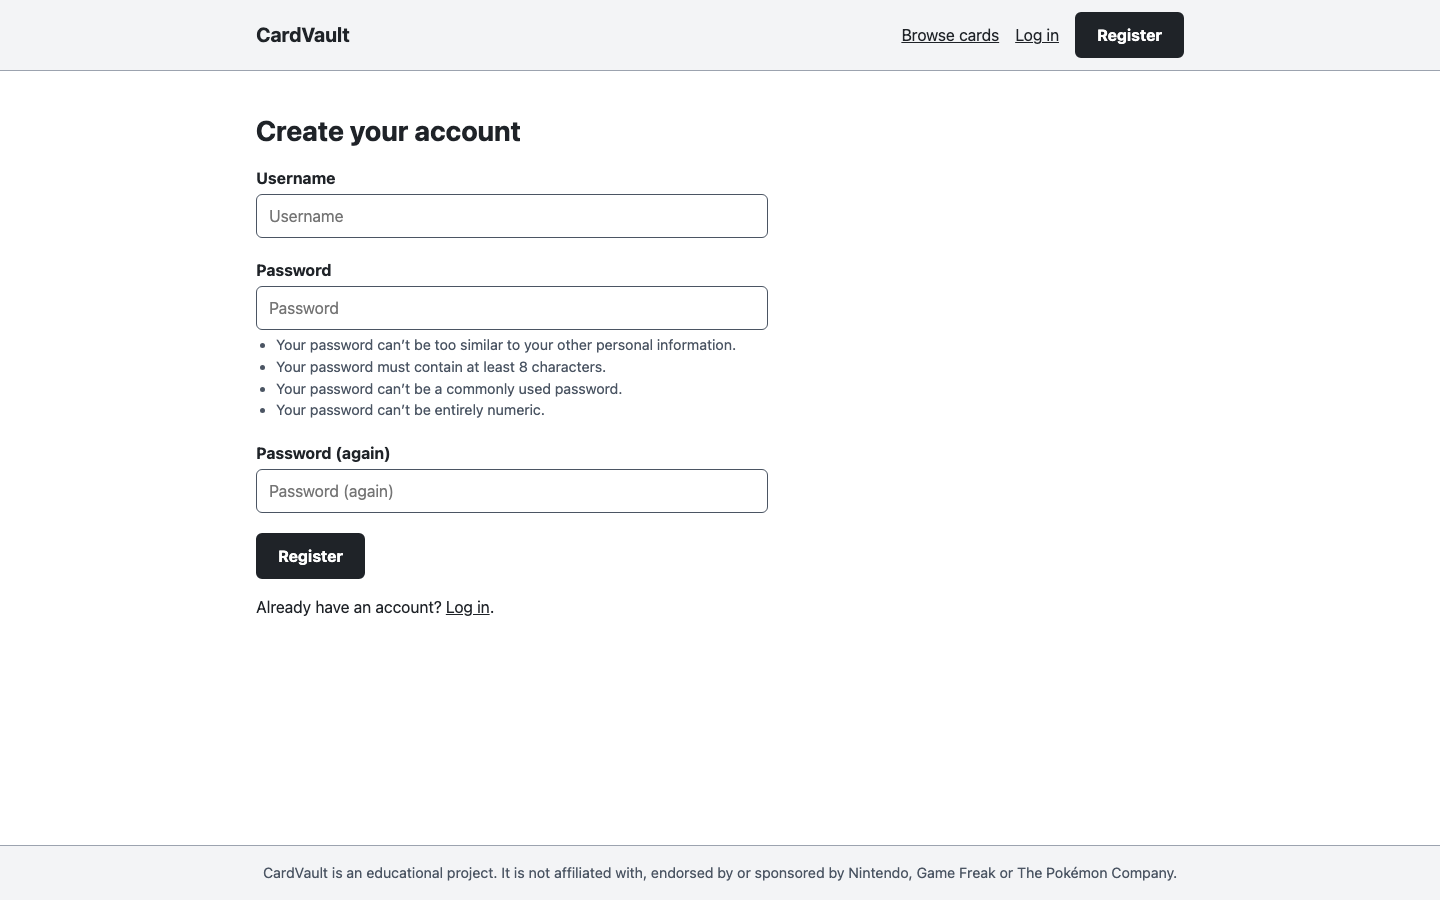
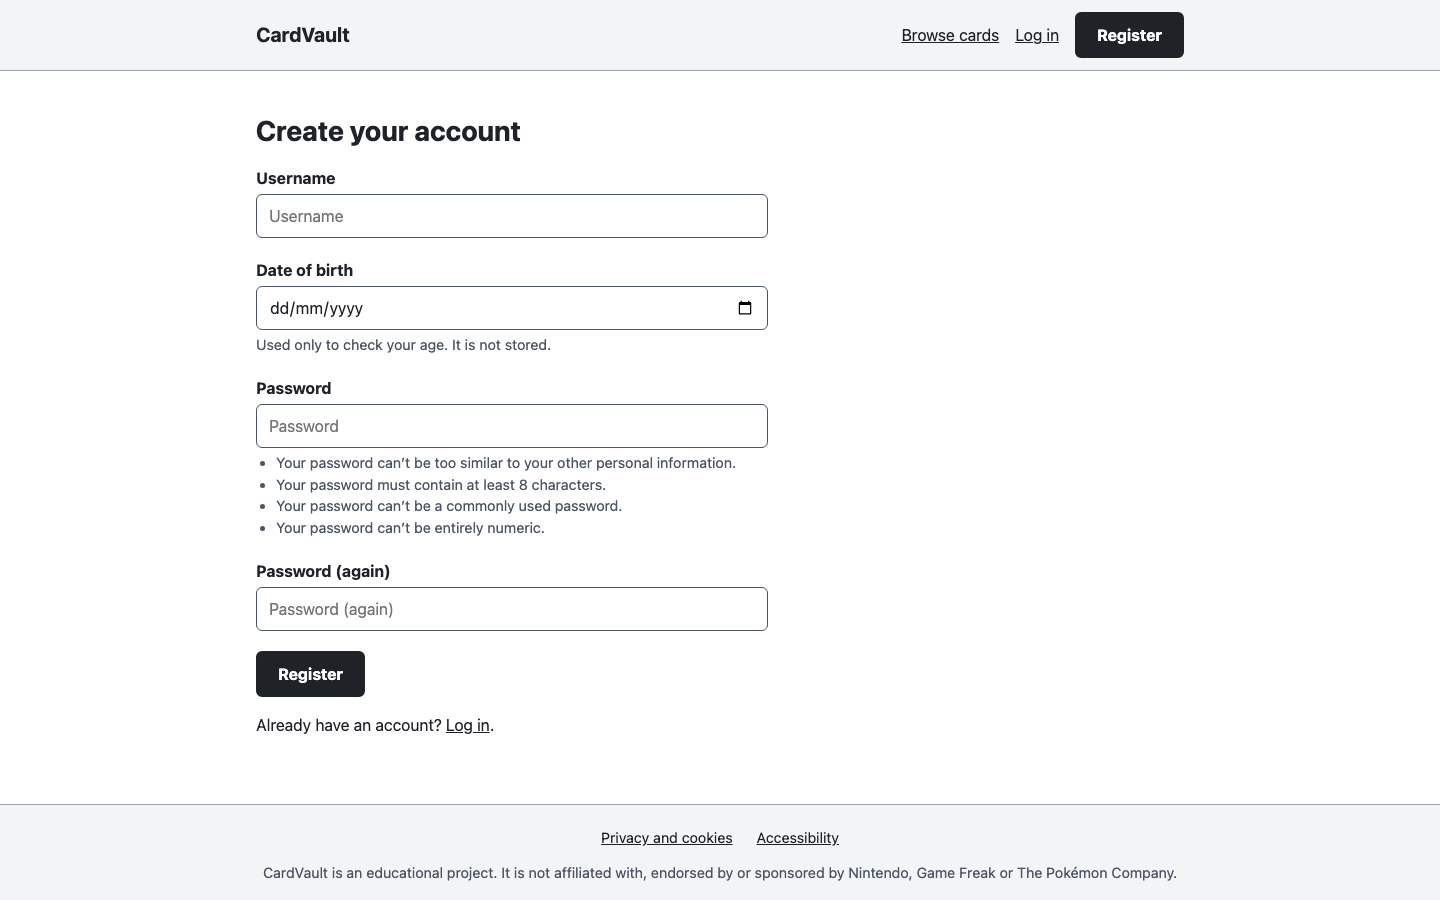
Keep the focus outline on the date field's calendar button
A keyboard-only test (real Tab key presses) found that the Date of
birth field lost its focus outline when focus reached its calendar
button, because focus sits on a part inside the field. The outline
now also applies with :focus-within. TESTING.md records the
accessibility testing (axe WCAG 2.2 AA on every page: 0 violations;
200% zoom; high contrast; keyboard only), the US29 to US32 manual
tests from the live run (48 of 48 checks) and fresh screenshots.

Fixes #56

diff --git a/static/css/style.css b/static/css/style.css
@@ -60,6 +60,15 @@ textarea:focus-visible {
     outline-offset: 2px;
 }
 
+/* A date field has several parts (day, month, year and the calendar
+   button); keep the outline on the whole field whichever part has
+   keyboard focus. */
+input[type="date"]:focus,
+input[type="date"]:focus-within {
+    outline: 3px solid var(--focus);
+    outline-offset: 2px;
+}
+
 .visually-hidden {
     position: absolute;
     width: 1px;

diff --git a/TESTING.md b/TESTING.md
@@ -7,9 +7,10 @@ CardVault is tested in four ways:
 
 | Method | What it covers | Result (15 October 2026) |
 |---|---|---|
-| [Manual testing](#manual-testing) | Every front-end action a user can take, done in a real browser on the live site | 41 of 41 checks passed |
+| [Manual testing](#manual-testing) | Every front-end action a user can take, done in a real browser on the live site | 48 of 48 checks passed |
 | [Responsive testing](#responsive-testing) | Layout at 320, 375, 768, 1024 and 1440px | No sideways scrolling at any width |
-| [Automated testing](#automated-testing) | 113 Django tests, including two-user ownership and security tests | 113 passed |
+| [Automated testing](#automated-testing) | 128 Django tests, including two-user ownership and security tests | 128 passed |
+| [Accessibility testing](#accessibility-testing) | axe (WCAG 2.2 AA) on every page, 200% zoom, high contrast, keyboard only | No violations (one keyboard bug found and fixed) |
 | [Security testing](#security-testing) | Headers, log in limits, admin access, secrets, dependencies, code scanning | No issues found |
 | [Validators](#validators) | HTML (W3C), CSS (Jigsaw), JavaScript, Python (PEP8) | 0 errors |
 
@@ -85,6 +86,21 @@ site on 12 October 2026, with the expected message at each step
 | US19 | Edit the review to 5 stars | "Your review was updated successfully." and ★★★★★ | Pass | [review-edit-form](./docs/images/screenshots/review-edit-form.png) |
 | US20 | Delete the review | Confirmation page; then "Your review was deleted." and "No reviews yet" | Pass | [review-delete-confirm](./docs/images/screenshots/review-delete-confirm.png) |
 
+### Privacy, safety and accessibility (US29 to US32)
+
+| Story | Test | Expected | Result | Screenshot |
+|---|---|---|---|---|
+| US29 | Register with a date of birth in 2020 | "Sorry, you need to be 13 or older to create a CardVault account." and no account | Pass | |
+| US29 | Open Register again in the same browser | The registration-closed page, with no form | Pass | [signup-under-13](./docs/images/screenshots/signup-under-13.png) |
+| US30 | Delete my account with a wrong password | "That password is not correct." and nothing deleted | Pass | [delete-account](./docs/images/screenshots/delete-account.png) |
+| US30 | Delete my account with the right password | "Your account, cards and reviews have been deleted.", logged out | Pass | [delete-account-success](./docs/images/screenshots/delete-account-success.png) |
+| US30 | Log in again with the deleted account | "Invalid username or password." | Pass | |
+| US31 | Open Privacy and cookies from the footer | Lists what is stored and the two cookies, `sessionid` and `csrftoken` | Pass | [privacy](./docs/images/screenshots/privacy.png) |
+| US32 | Open Accessibility from the footer | The accessibility statement (WCAG 2.2 AA) | Pass | [accessibility](./docs/images/screenshots/accessibility.png) |
+
+The account used for the live run was deleted by the run itself,
+through Delete my account.
+
 ### Security checks (US05)
 
 Changing the ID in the address bar to another user's entry or review
@@ -112,11 +128,11 @@ Run with:
 python manage.py test
 ```
 
-113 tests, all passing on 15 October 2026:
+128 tests, all passing on 15 October 2026:
 
 | File | Tests | What they check |
 |---|---|---|
-| `accounts/tests.py` | 31 | Register (valid, taken username, each of the four password rules, mismatched passwords), log in (valid, wrong password, unknown username, return to the requested page, no password-reset link), log out (POST logs out, GET does not), navigation in both states; security headers (CSP, Permissions Policy, no framing, no inline scripts), log in rate limiting (the sixth wrong password is blocked, even a correct one while locked), and the admin log in going through django-allauth (staff in, others refused, unsafe `next` addresses ignored) |
+| `accounts/tests.py` | 46 | Register (valid, taken username, each of the four password rules, mismatched passwords), log in (valid, wrong password, unknown username, return to the requested page, no password-reset link), log out (POST logs out, GET does not), navigation in both states; security headers (CSP, Permissions Policy, no framing, no inline scripts), log in rate limiting (the sixth wrong password is blocked, even a correct one while locked), and the admin log in going through django-allauth (staff in, others refused, unsafe `next` addresses ignored); the age check (13 today allowed, one day short refused, registration then closed for the session, future dates rejected, date of birth not stored), deleting an account (password check, everything of yours deleted, other users untouched), the privacy and accessibility pages and footer links, and no `messages` cookie |
 | `cards/tests.py` | 53 | Model constraints (unique set names, unique number per set, rating 1 to 5 in the form and the database, one review per user per card), the Base Set (102 cards, matching the printed set) and tester fixtures (load twice without duplicates), the star filter, the "edited" marker, catalogue paging and search, the card page logged in and out, average rating, and review create, edit and delete, including another user's review returning 404 |
 | `collection/tests.py` | 29 | Entry constraints (one per user per card, quantity at least 1), My Cards tabs and empty states, add (owned, wanted, quantity 0, duplicate, unknown card, logged out), edit and remove, including another user's entry returning 404 and staying unchanged |
 
@@ -131,6 +147,25 @@ pip install coverage
 coverage run --source='.' manage.py test
 coverage report -m
 ```
+
+## Accessibility testing
+
+Run on 15 October 2026 for US32, in Chrome. axe-core 4.10.2 is the
+same accessibility engine Lighthouse uses; it was run with every WCAG
+2.0, 2.1 and 2.2 A and AA rule.
+
+| Check | Pages | Result |
+|---|---|---|
+| axe (WCAG 2.2 AA), logged out | Home, Browse cards, a search with no results, a card page, Log in, Register, Privacy, Accessibility (locally and on the live site) | 0 violations |
+| axe (WCAG 2.2 AA), logged in | Home, a card page with my entry and review, My Cards, Add card, Delete my account (with and without an error), Log out | 0 violations |
+| 200% zoom (a 1280px window at 200%, so 640 CSS pixels) | Home, Browse cards, a card page, My Cards, Privacy | No sideways scrolling |
+| High contrast (`prefers-contrast: more` emulated) | A card page | Text switches to black, borders darken and thicken |
+| Keyboard only: real Tab key presses, checking each stop's focus outline | Home, a card page, Register, Log in, Privacy (live site) | Every link, field and button reachable in a logical order; one stop without an outline (bug #56, fixed) |
+| Sound | Whole site | No audio or video; every message is on-screen text |
+
+**Still to do by hand:** a pass with VoiceOver (the Mac's built-in
+screen reader), and Lighthouse's performance and best-practice scores
+(US22, US23, US32).
 
 ## Security testing
 
@@ -221,6 +256,7 @@ privately, as described in [SECURITY.md](./SECURITY.md).
 | [#45](https://github.com/J-Codes-Walkz/CardVault/issues/45) | README used a hand-written table of contents | Removed; GitHub builds the outline from the headings | Fixed |
 | [#46](https://github.com/J-Codes-Walkz/CardVault/issues/46) | Markdown file names were not in capitals | Renamed with `git mv`; testing moved into this file | Fixed |
 | [#47](https://github.com/J-Codes-Walkz/CardVault/issues/47) | Footer floated mid-page on short pages; navigation did not collapse on phones | Sticky-footer CSS and a Menu button | Fixed |
+| [#56](https://github.com/J-Codes-Walkz/CardVault/issues/56) | Date of birth field lost its focus outline when keyboard focus reached its calendar button | Outline kept on the whole field with `:focus-within`; re-tested with real Tab key presses | Fixed |
 
 Found and fixed while building, before they reached the live site:
 
